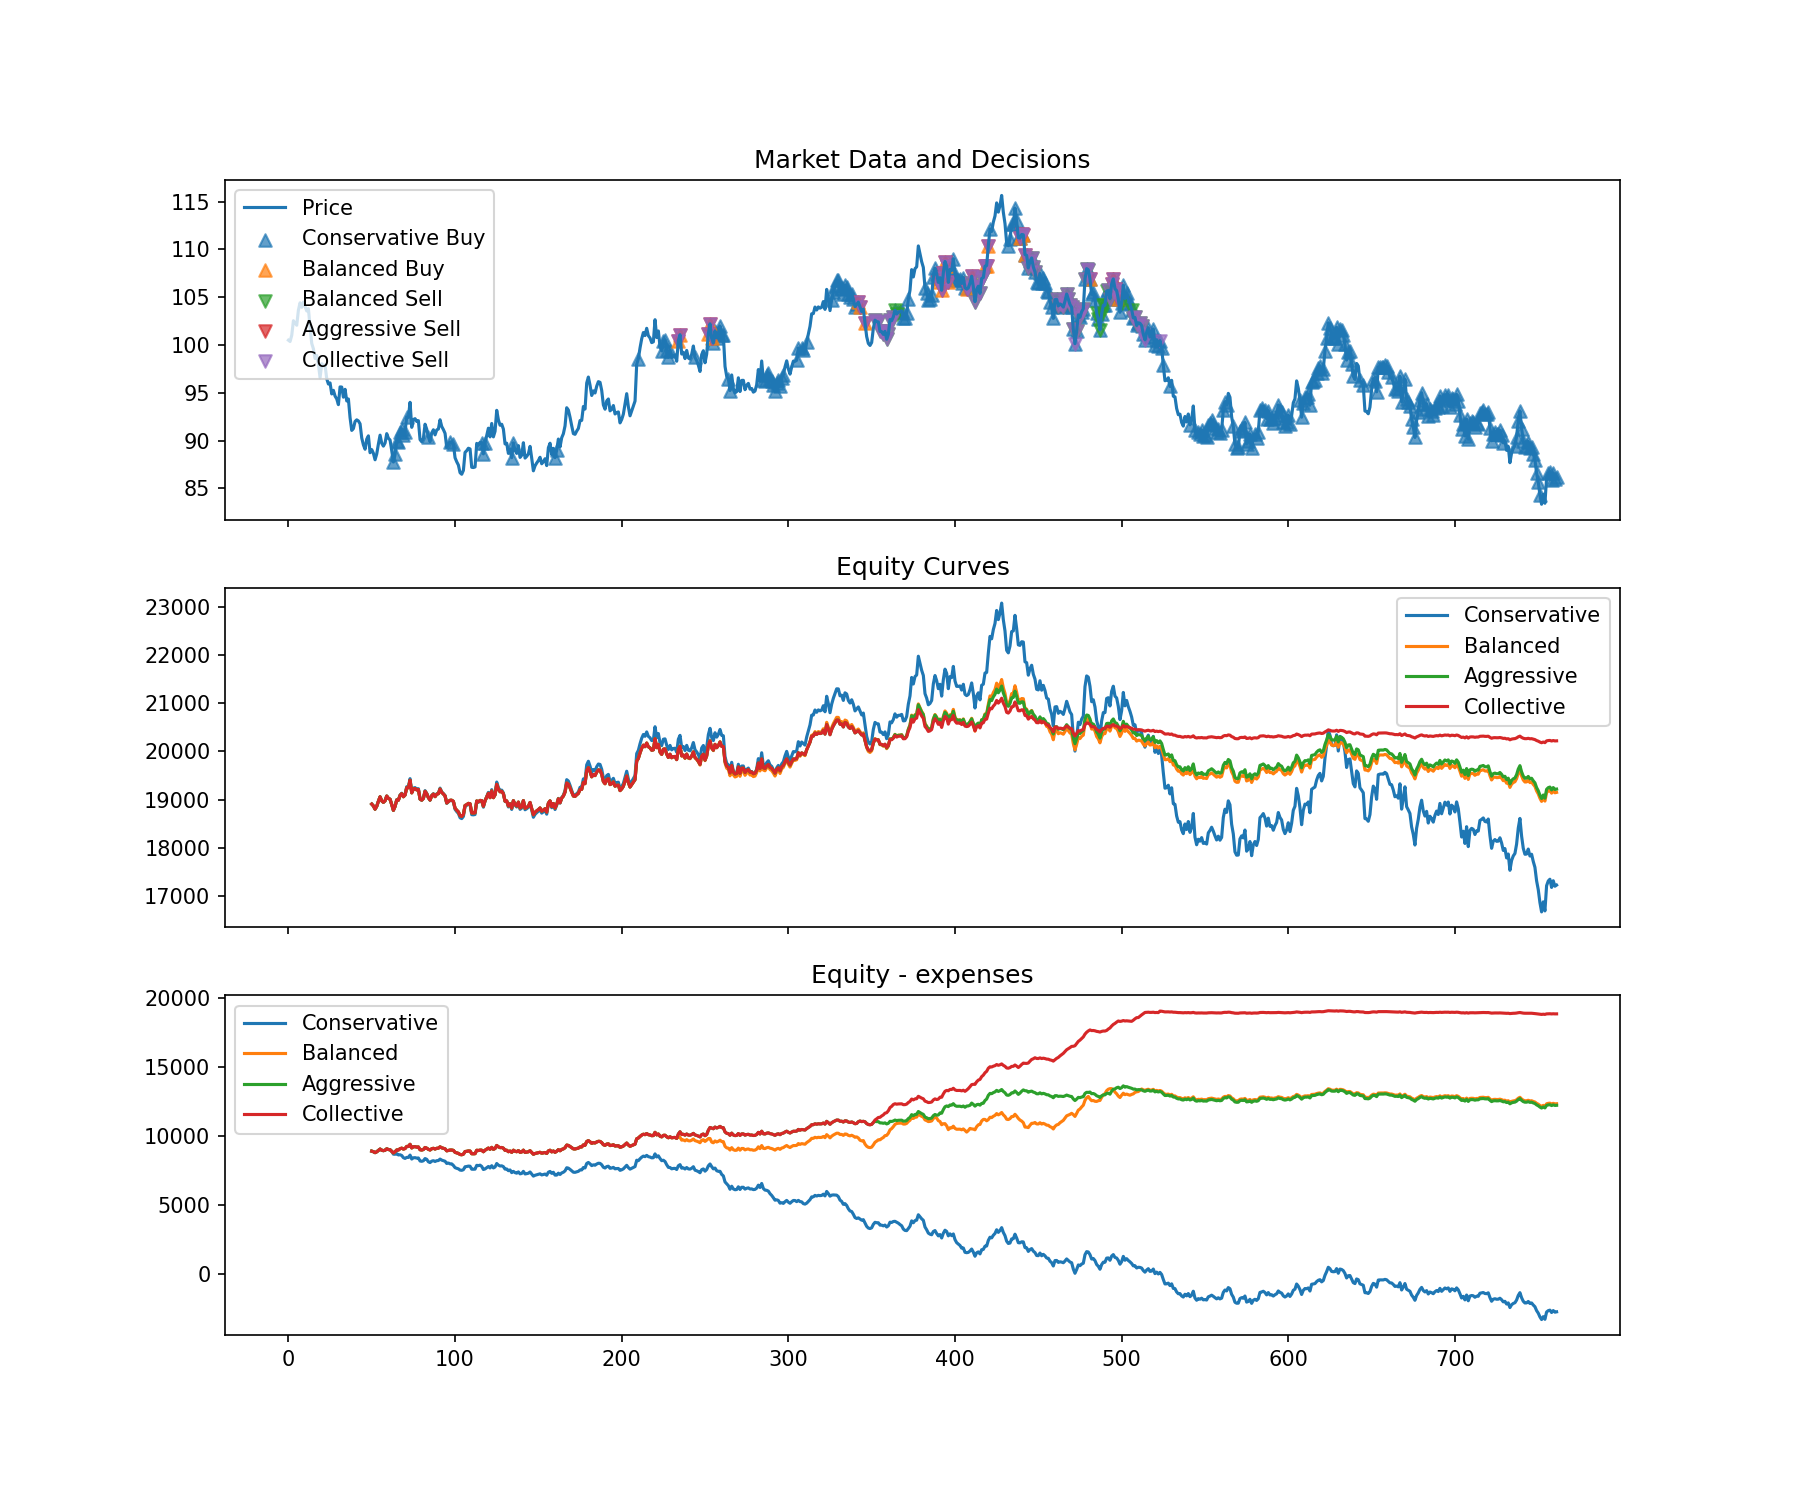
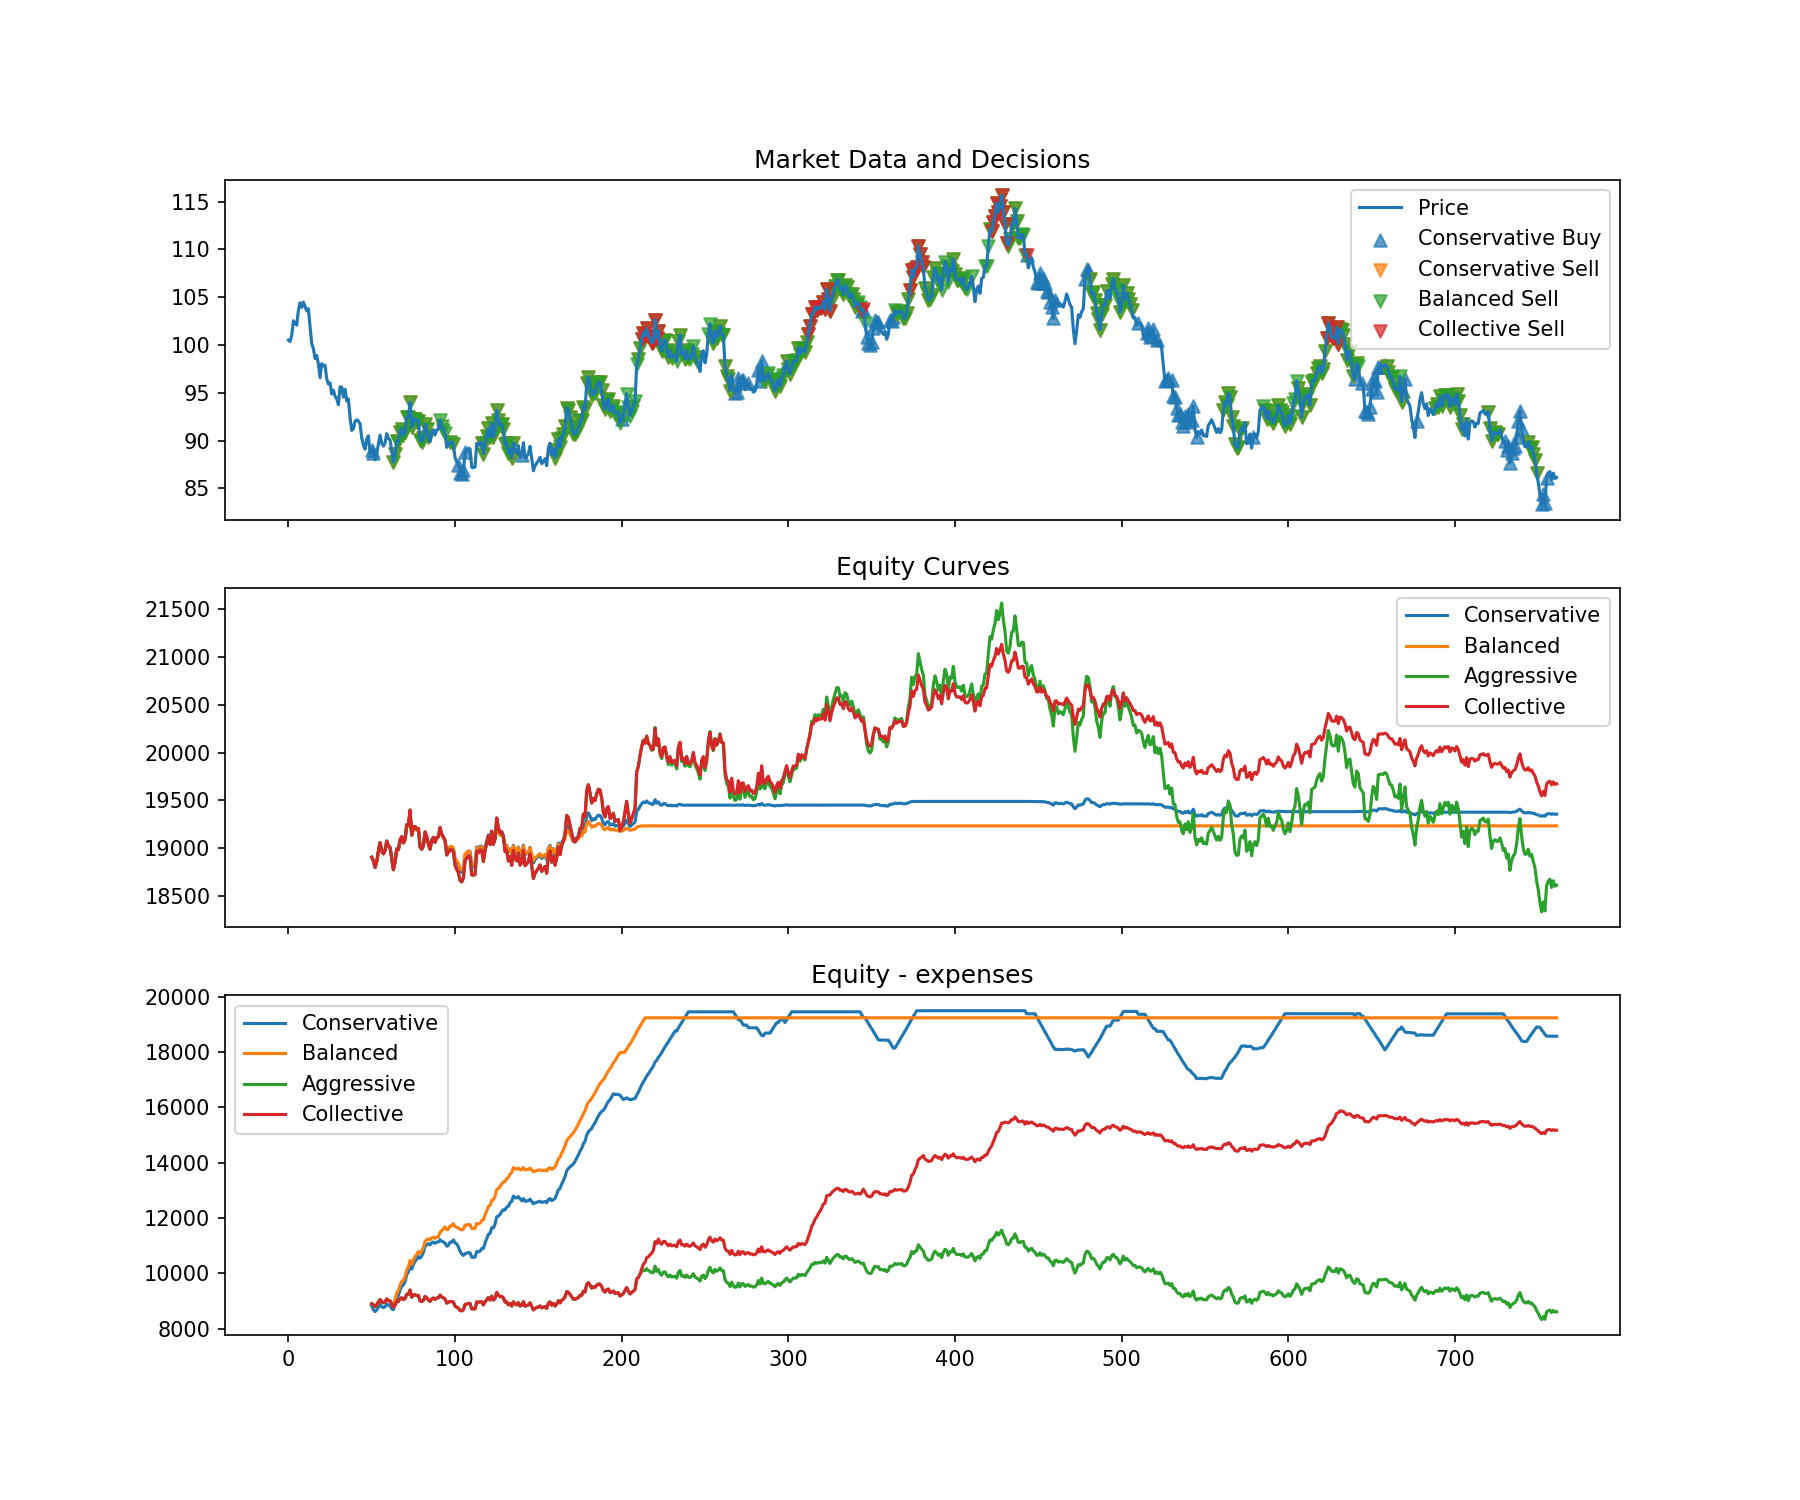
ground interpretation, still need to add weight interpretation

diff --git a/generated code/tradingAgent4.py b/generated code/tradingAgent4.py
@@ -12,16 +12,16 @@ def compute_grounds(prices, day, portfolio, grounds):
     if day < 20:  # not enough history for indicators
         return gs
 
-    if "MA_crossover" in grounds:
+    if "MA_crossover" in grounds: # moving average crossover
         window_short = 10
         window_long = 20
         ma_short = prices.iloc[day - window_short:day].mean()
         ma_long = prices.iloc[day - window_long:day].mean()
         ma_crossover = ma_short > ma_long
-        gs["MA_crossover"] = ma_crossover
+        gs["MA_crossover"] = ma_crossover # true means short term trend overtakes long term -> buy
 
     # RSI
-    if "RSI_low" in grounds or "RSI_high" in grounds:
+    if "RSI_low" in grounds or "RSI_high" in grounds: # Relative Strength Index
         delta = prices.diff().iloc[1:day]
         gain = delta.where(delta > 0, 0).rolling(14).mean().iloc[-1]
         loss = -delta.where(delta < 0, 0).rolling(14).mean().iloc[-1]
@@ -29,17 +29,18 @@ def compute_grounds(prices, day, portfolio, grounds):
         rsi = 100 - (100 / (1 + rs))
         if "RSI_low" in grounds:
             rsi_low = rsi < 30
-            gs["RSI_low"] = rsi_low
+            gs["RSI_low"] = rsi_low # true means oversold -> buy
         if "RSI_high" in grounds:
             rsi_high = rsi > 70
-            gs["RSI_high"] = rsi_high
+            gs["RSI_high"] = rsi_high # true means overbought -> sell
 
     # MACD (12 vs 26 EMA)
-    if "MACD_positive" in grounds:
+    if "MACD_positive" in grounds:  # moving average convergence/divergence
         ema12 = prices.ewm(span=12, adjust=False).mean().iloc[day]
         ema26 = prices.ewm(span=26, adjust=False).mean().iloc[day]
         macd_positive = ema12 > ema26
-        gs["MACD_positive"] = macd_positive
+        gs["MACD_positive"] = macd_positive # true means upward momentum -> buy
+        gs["MACD_negative"] = not macd_positive # true means downward momentum -> sell
 
     # Equity-based grounds
     current_price = prices.iloc[day]
@@ -76,9 +77,9 @@ class Agent:
 
         # Style biases
         style_bias = {
-            "conservative": {"Buy": 0.5, "Sell": 0.5, "Hold": 2.0},
-            "balanced": {"Buy": 1.0, "Sell": 1.0, "Hold": 1.0},
-            "aggressive": {"Buy": 1.25, "Sell": 1.25, "Hold": 0.5},
+            "conservative": {"Buy": 1/6, "Sell": 1/6, "Hold": 4/6},
+            "balanced": {"Buy": 1/3, "Sell": 1/3, "Hold": 1/3},
+            "aggressive": {"Buy": 5/12, "Sell": 5/12, "Hold": 1/6},
             "collective": {"Buy": 0, "Sell": 0, "Hold": 0},
         }
 
@@ -255,7 +256,7 @@ if __name__ == "__main__":
     prices = pd.Series(np.cumsum(np.random.randn(n_days)) + 100)
 
     grounds = [
-        "MA_crossover", "RSI_low", "RSI_high", "MACD_positive"
+        "MA_crossover", "RSI_low", "RSI_high", "MACD_positive", "MACD_negative"
         , "EquityGainSell", "EquityGainBuy"
     ]
 
